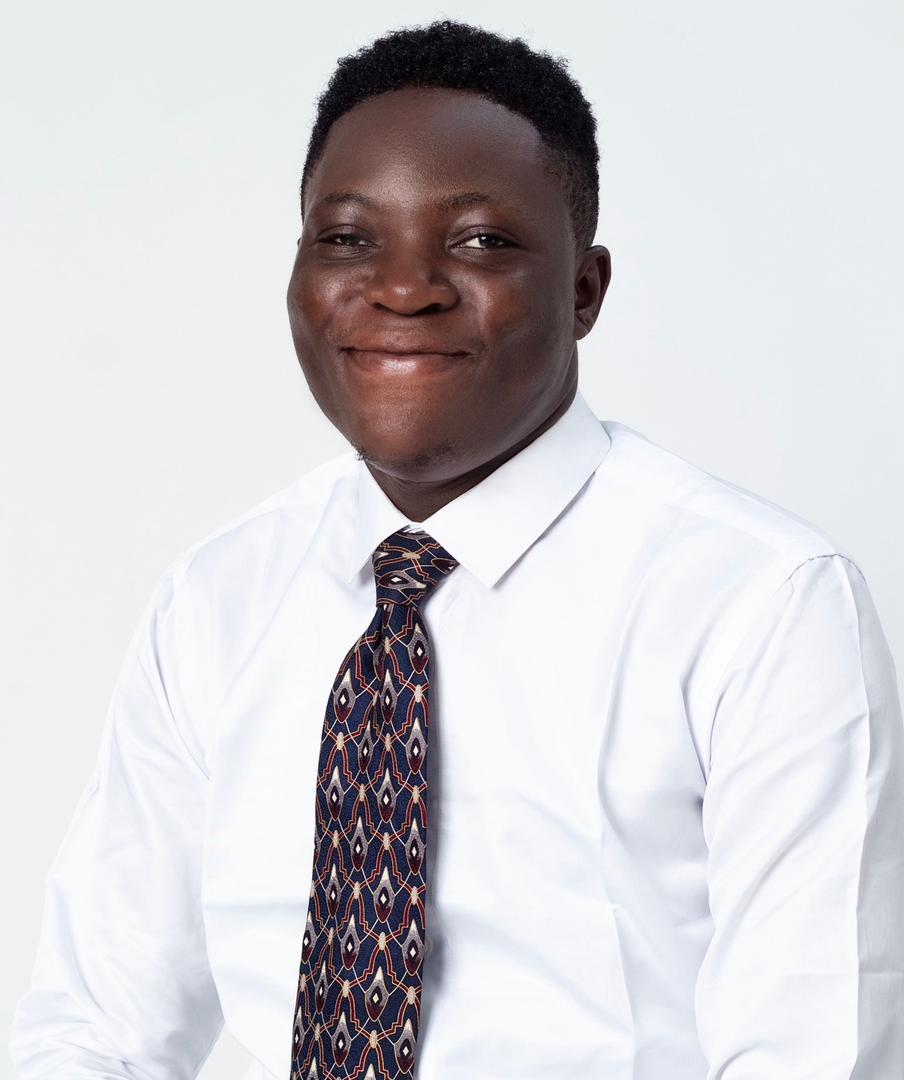
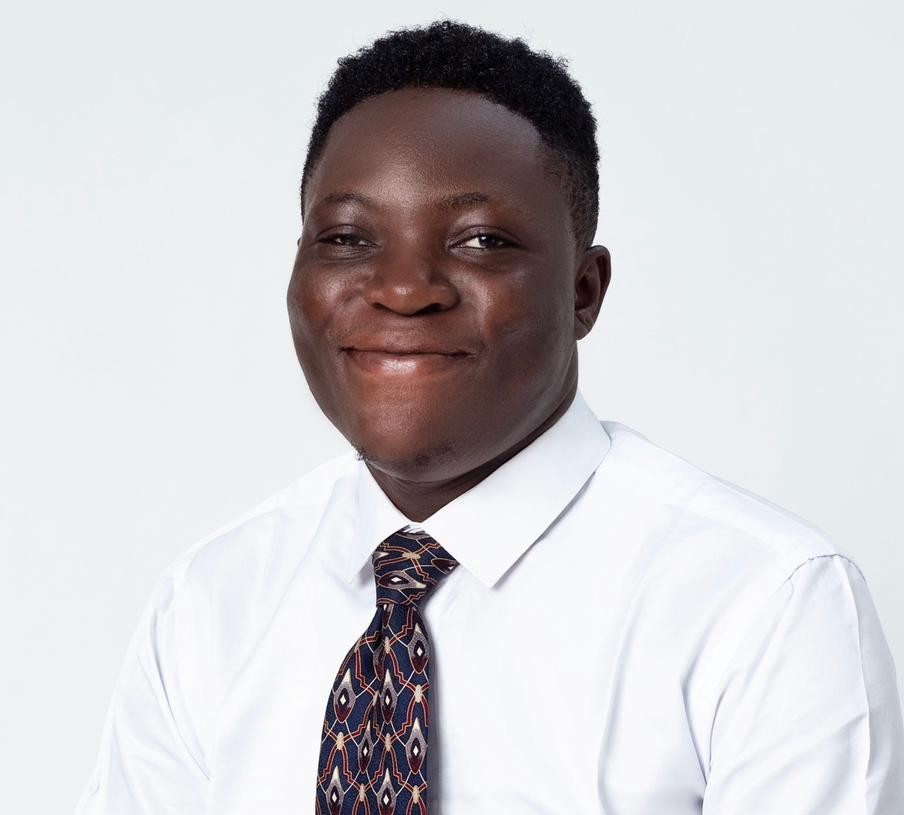
Add files via upload

diff --git a/assets/css/main.css b/assets/css/main.css
@@ -41,9 +41,10 @@ blockquote, q {
 
     .image.object img {
       border-radius: 50%;
-      width: 100px;
-      height: 100px;
-      object-fit: cover;
+      width: 200px;
+      height: 200px;
+      object-fit: contain;
+      margin-top: 50px;
   }
 
 table {
